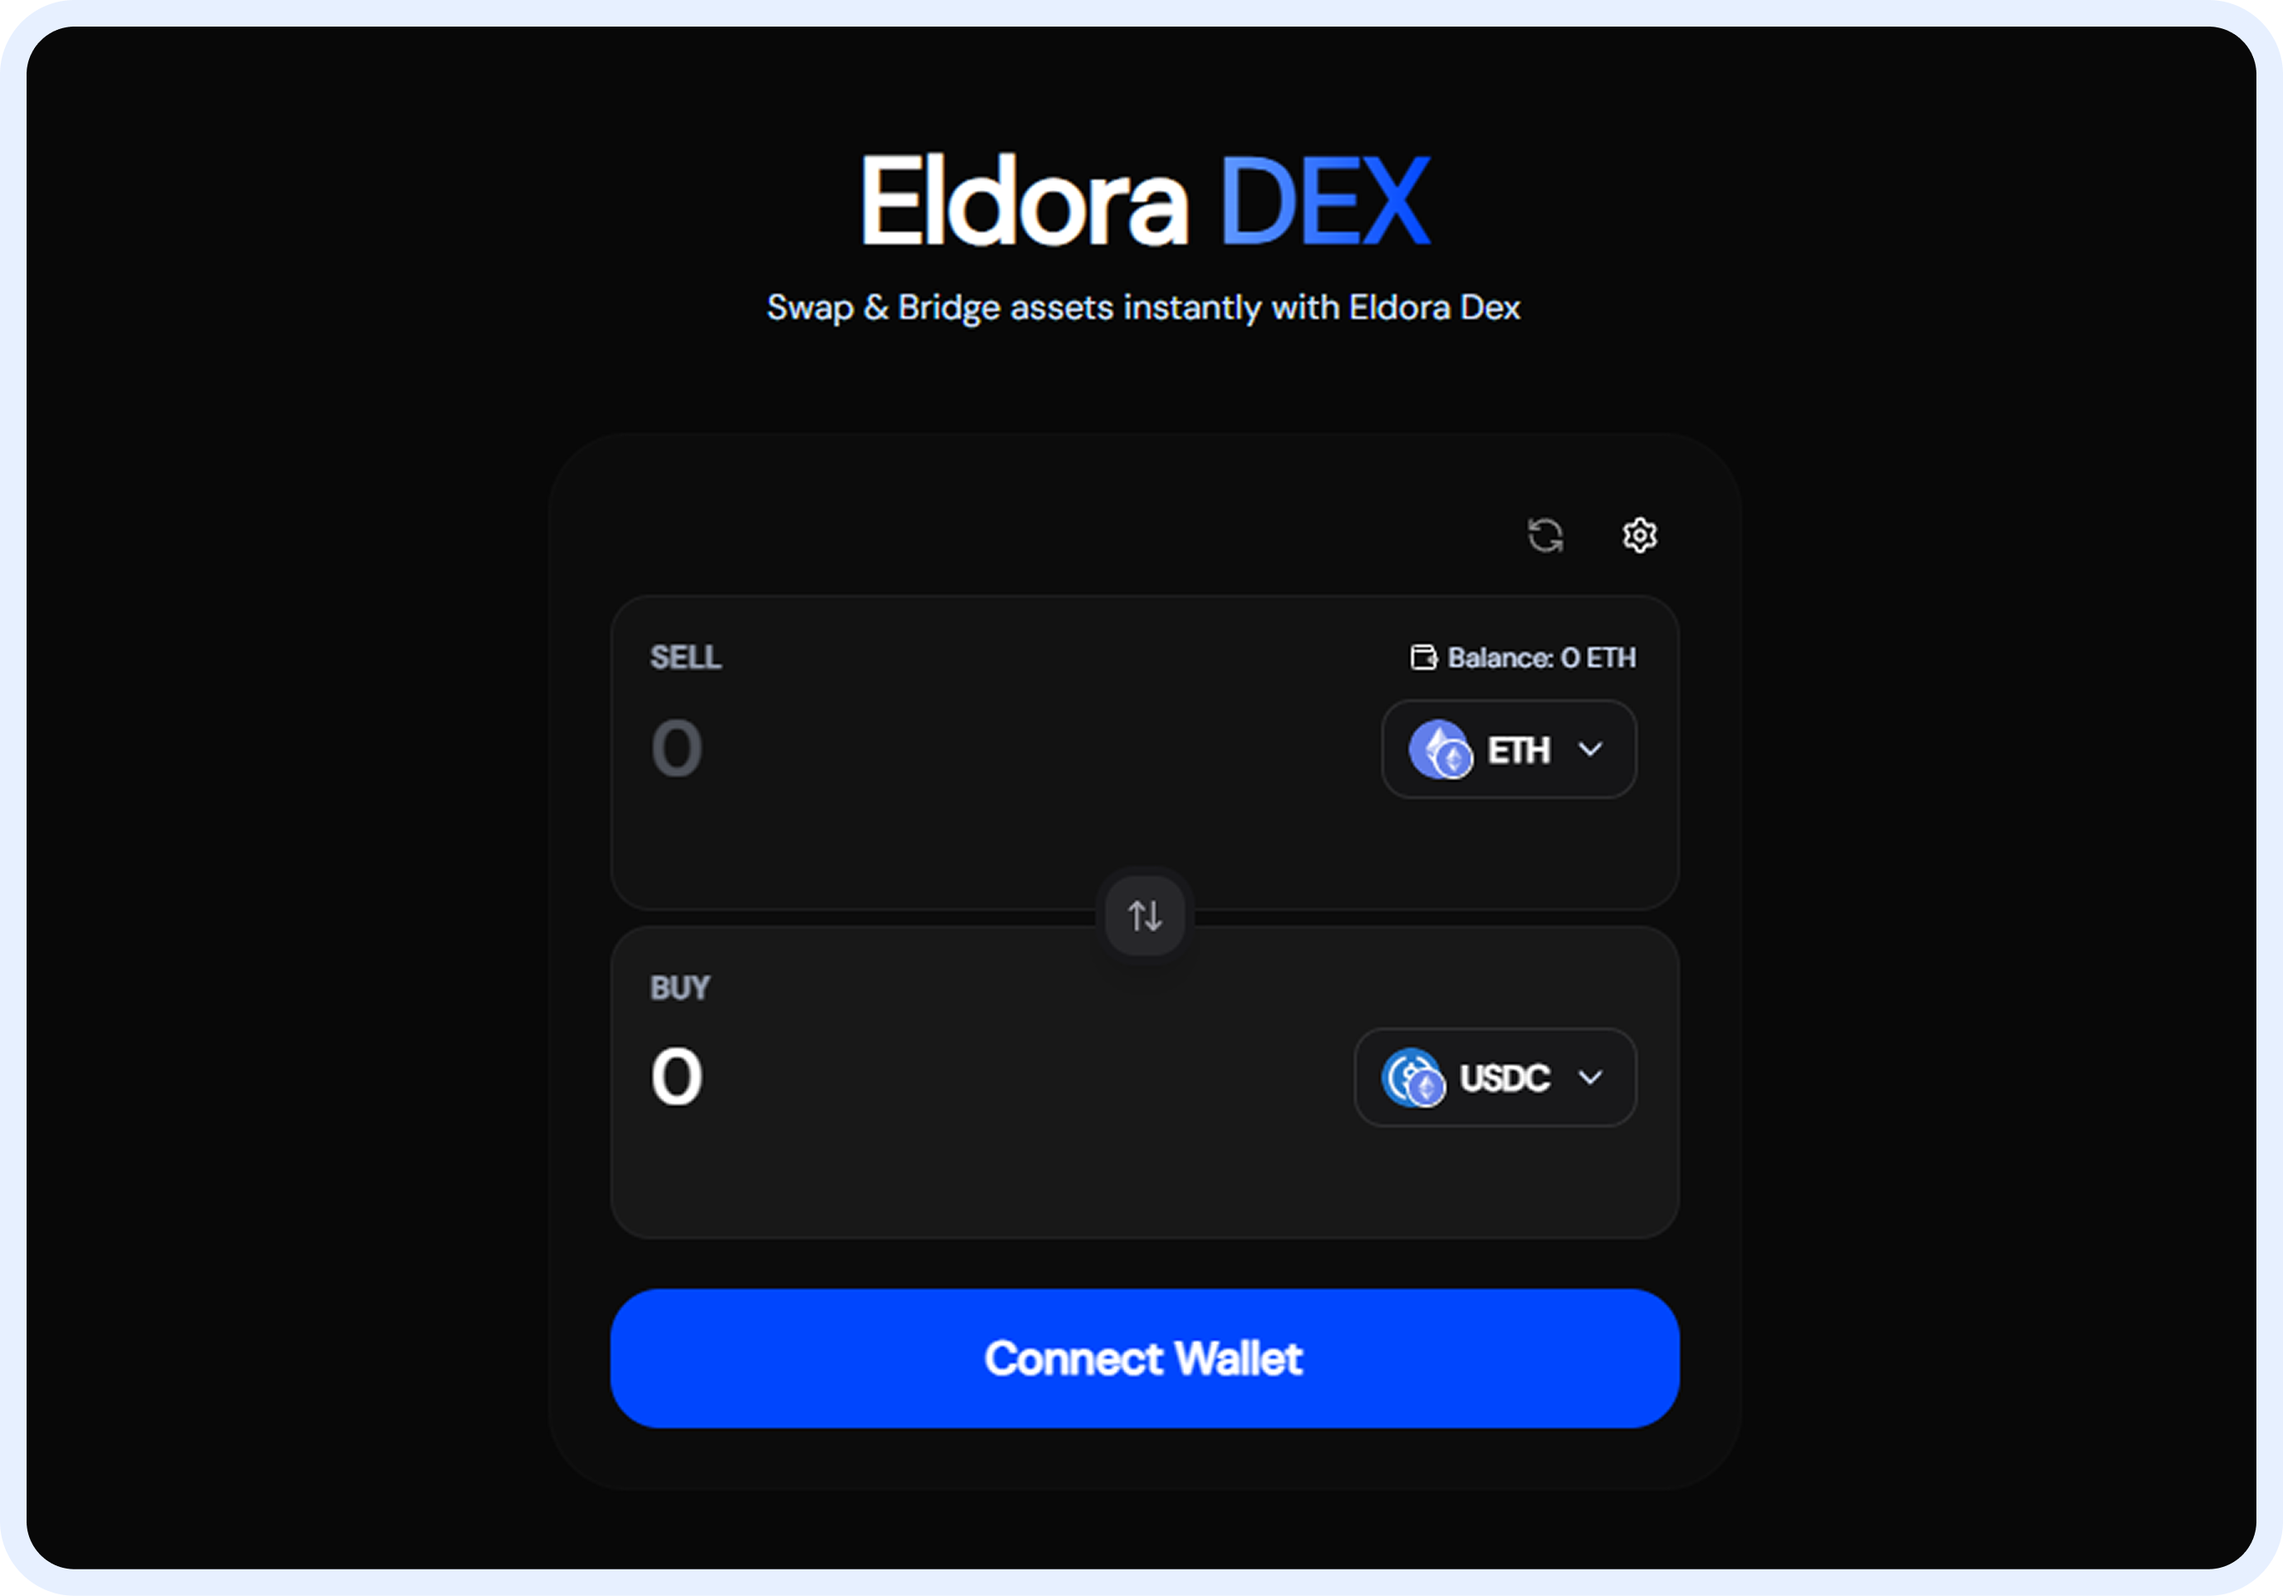
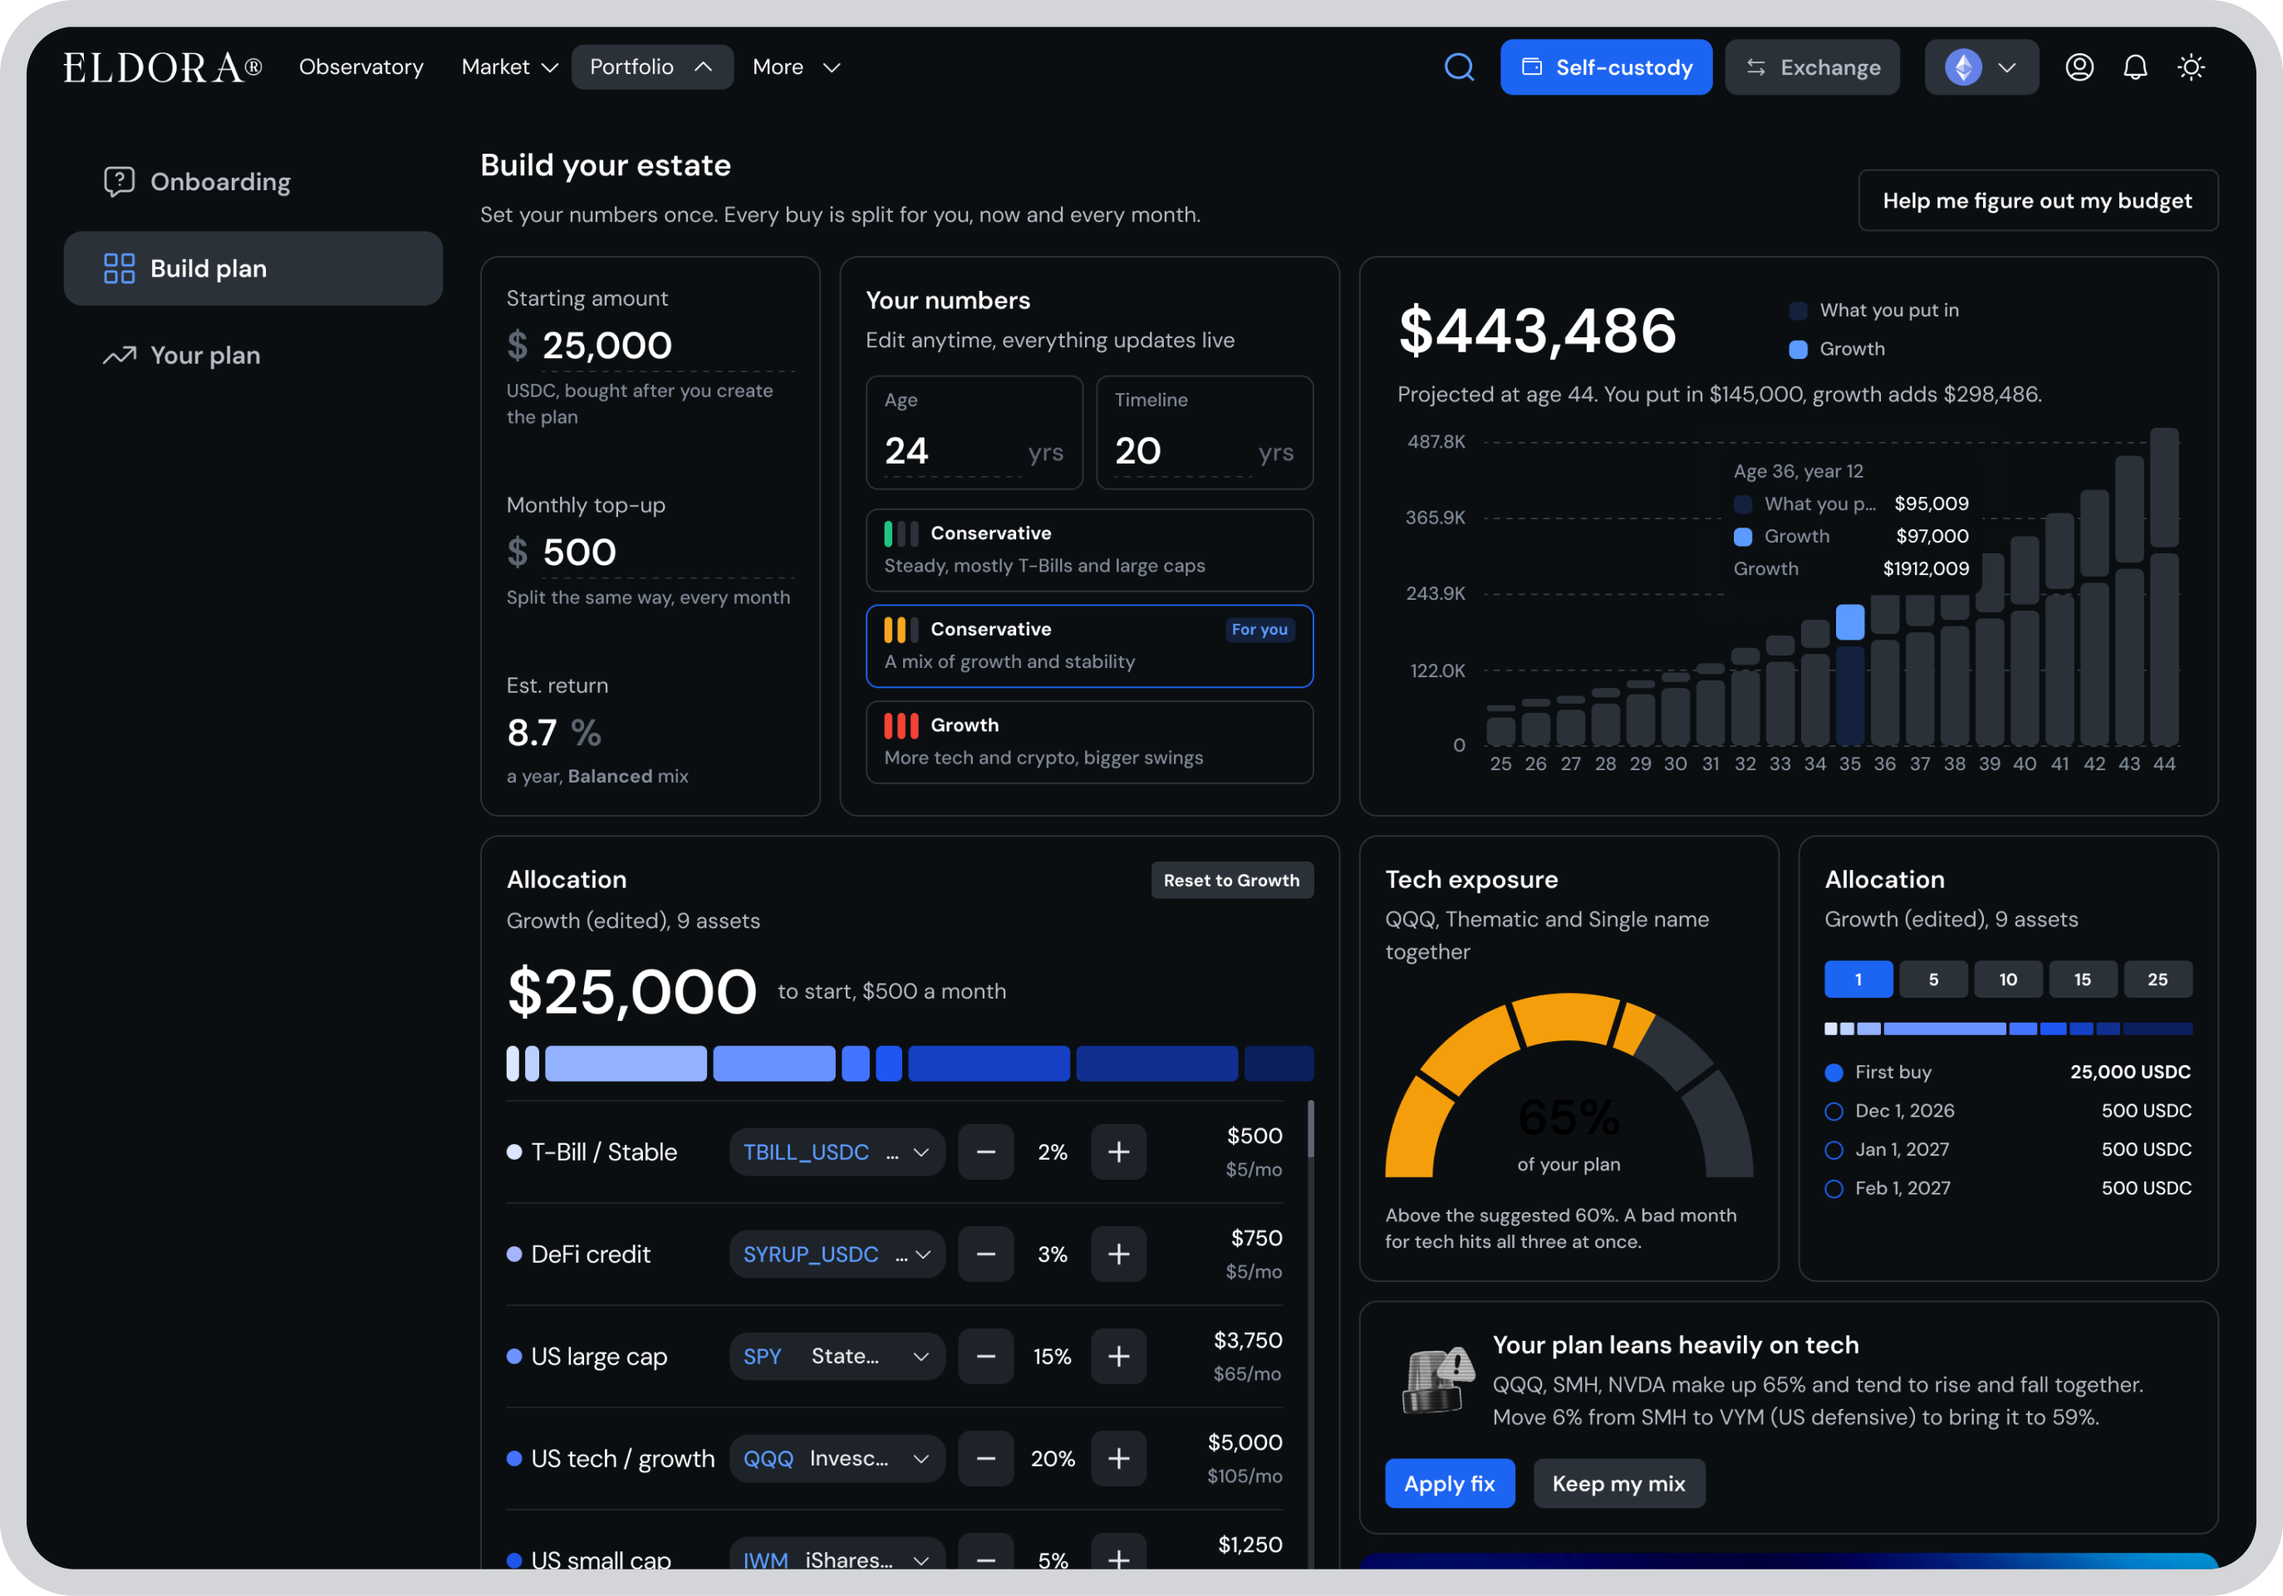
update text in Eldora section

diff --git a/src/components/WhyEldoraSection.tsx b/src/components/WhyEldoraSection.tsx
@@ -42,18 +42,17 @@ const WhyEldoraSection = () => {
           <div className="max-w-xl">
             <div className="flex flex-col gap-4 text-left font-eiko text-2xl text-navi-dark/90 md:gap-8 lg:text-3xl">
               <p>
-                Global markets are open. Access isn't.
-                <br className="hidden lg:block" /> Banks add friction. Brokers
-                add fees.
-                <br className="hidden lg:block" /> Platforms add complexity.
+                Global markets are open.  <br className="hidden lg:block" />But building a diversified portfolio takes more than access.
+                
               </p>
 
-              <p>Eldora removes all of it.</p>
+              <p>Eldora brings it together.</p>
 
               <p>
-                One account. One KYC. 724 tokenized US <br className="hidden lg:block" />
-                stocks, T-Bill yield, and DeFi lending{" "}
-                <span className="text-[#3B82F6]">across 85+ countries. 24/7.</span>
+               Personalized allocation with The Estate. Global stocks, ETFs, T-Bills,
+                <br/>
+                and crypto, with streamlined onchain execution 
+                <span className="text-[#3B82F6]"> across 85+ supported countries.</span>
               </p>
             </div>
           </div>

diff --git a/src/constants/index.ts b/src/constants/index.ts
@@ -164,7 +164,7 @@ export const investCards = [
   {
     index: "01.",
     title: "Discover Opportunities",
-    desc: "724 tokenized US stocks and ETFs, including the full S&P 500. Plus crypto spot and perpetuals.",
+    desc: "Access tokenized U.S. stocks and ETFs, including the full S&P 500. Plus crypto spot and perpetuals, all in one place.",
     img: invest1,
     icon: golbeIcon,
   },
